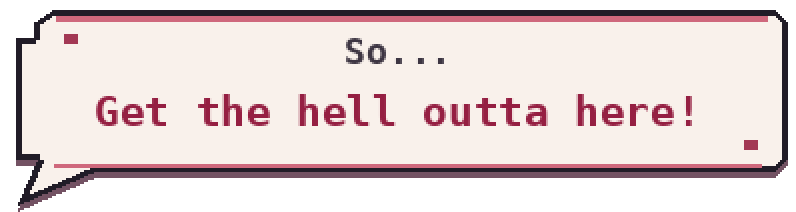
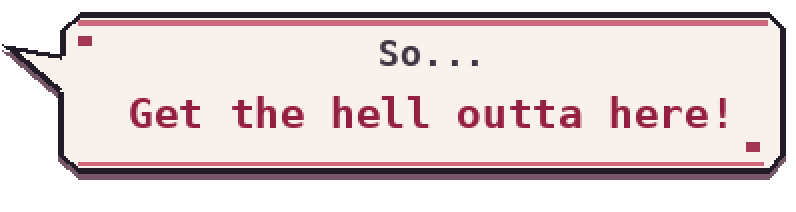
profile: balance maid, align speech bubble tail and enlarge Japanese notice

Changed region(s): [[0.0, 0.0283, 0.995, 0.9906], [0.1206, 0.4245, 0.9347, 0.6226], [0.4221, 0.1698, 0.603, 0.3113]]

diff --git a/README.md b/README.md
@@ -1,17 +1,17 @@
 <table align="center">
   <tr>
-    <td align="center" valign="bottom" width="210">
-      <img src="./assets/maid-menu.webp" width="210" alt="Горничная в очках и с косами представляет меню" />
+    <td align="center" valign="middle" width="245">
+      <img src="./assets/maid-menu.webp" width="250" alt="Горничная в очках и с косами представляет меню" />
     </td>
-    <td align="center" valign="middle" width="400">
+    <td align="center" valign="middle" width="370">
       <h2>Today's Menu</h2>
       <p><strong>Hiiii, I'm Vladber!</strong></p>
       <p>Welcome to my cozy little corner,<br>where I keep the worlds I dream up.</p>
       <p>Most of my main repositories are <strong>private</strong>.</p>
-      <p><img src="./assets/get-out-bubble.png" width="360" alt="So... Get the hell outta here!" /></p>
+      <p align="left"><img src="./assets/get-out-bubble.png" width="365" alt="So... Get the hell outta here!" /></p>
     </td>
-    <td align="center" valign="middle" width="94">
-      <img src="./assets/japanese-vertical.png" width="92" alt="わざわざこのアニメっぽい言葉を翻訳したのか！？ 出てけって言っただろうが！！！" />
+    <td align="center" valign="middle" width="112">
+      <img src="./assets/japanese-vertical.png" width="110" alt="わざわざこのアニメっぽい言葉を翻訳したのか！？ 出てけって言っただろうが！！！" />
     </td>
   </tr>
 </table>
